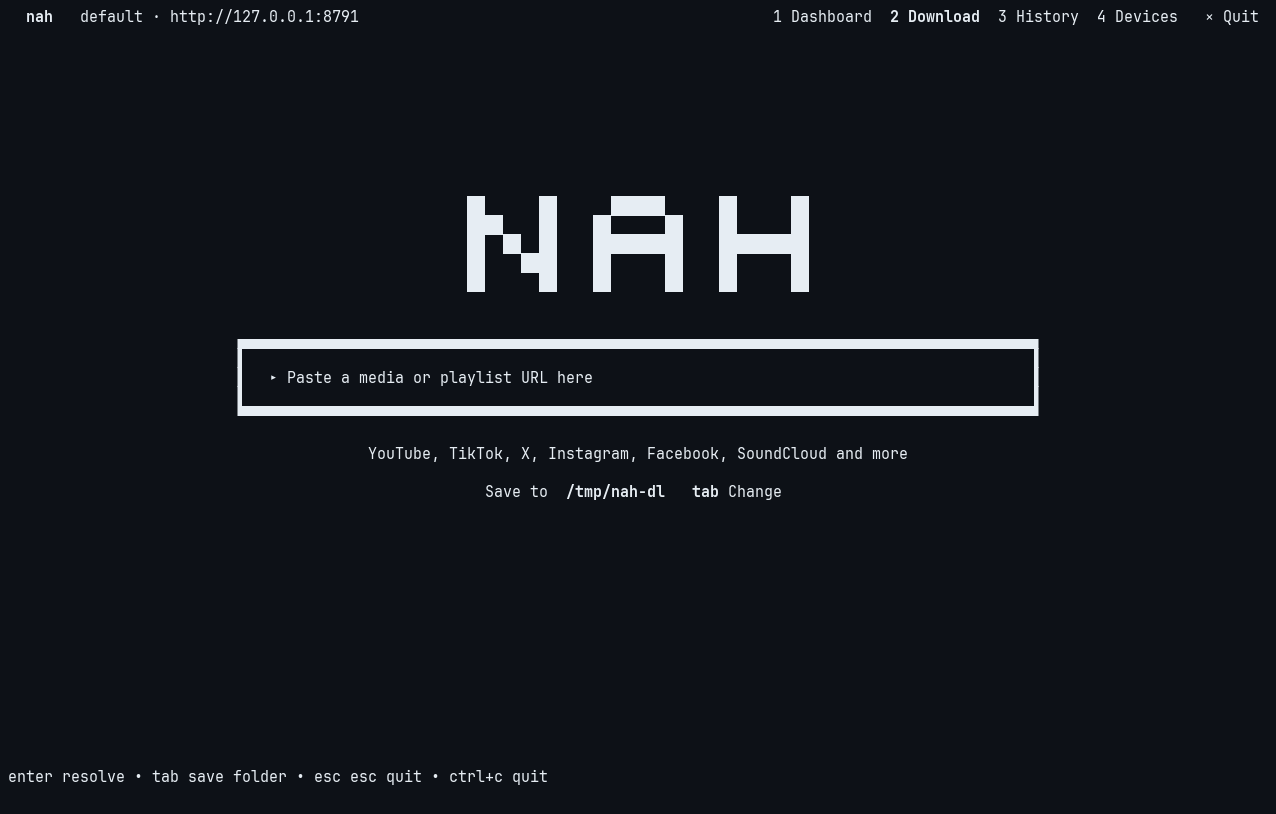
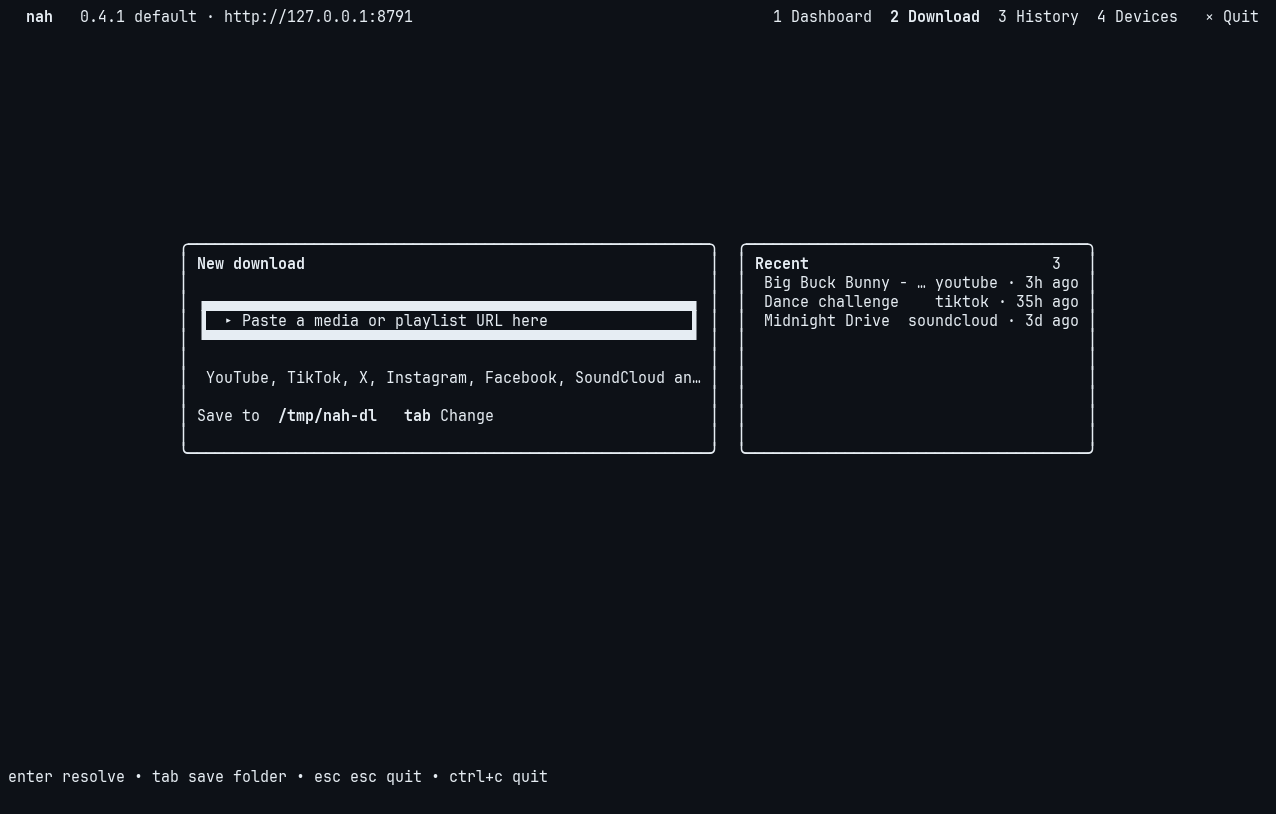
feat(tui): turn the Download tab into a two-panel workspace (#47)
The home screen was the last place still showing the old look: a
centred ASCII logo over one big input. It is now the same panel
language as the rest of the app:

- 'New download' panel: compact URL field, platforms hint, save
  folder line (click and keyboard targets preserved)
- 'Recent' panel: the latest history entries with platform and age,
  cached and refreshed after each download; stacked under the input
  on narrow terminals, dropped when it would not fit
- the toast moved under the panels so long gateway errors are no
  longer truncated inside the card
- docs/nah-home.png regenerated; scripts/shots/dump.py added to
  inspect the text buffer without rendering PNGs

Changed region(s): [[0.1528, 0.215, 0.8558, 0.6143], [0.0611, 0.0, 0.3362, 0.0307], [0.1528, 0.3071, 0.2445, 0.3378]]

diff --git a/cli/internal/tui/playground.go b/cli/internal/tui/playground.go
@@ -111,6 +111,10 @@ type playground struct {
 	thumbKey   [2]int // the box the cached lines were drawn for
 	toast      flash
 
+	// recent caches the history entries shown on the home screen; recentDirty reloads them
+	recent      []history.Entry
+	recentDirty bool
+
 	dl struct {
 		name     string
 		done     int64
@@ -138,6 +142,7 @@ func newPlayground(d Deps) *playground {
 		ask: d.Session != nil && d.Session.AskWhereToSave(),
 	}
 	m.tbl = newGrid([]string{"DOWNLOAD AS", "DETAILS"}, []int{0, 24})
+	m.recentDirty = true
 	return m
 }
 
@@ -471,6 +476,7 @@ func (m *playground) Update(msg tea.Msg) tea.Cmd {
 					if msg.err != nil {
 						m.playlistStatus[msg.index] = "failed"
 					} else if m.d.History != nil && m.playlist != nil && msg.index < len(m.playlist.Entries) {
+						m.recentDirty = true
 						entry := m.playlist.Entries[msg.index]
 						_, _ = m.d.History.Add(history.Entry{
 							URL:      entry.URL,
@@ -495,6 +501,7 @@ func (m *playground) Update(msg tea.Msg) tea.Cmd {
 				m.toast.set(now, "Download failed: "+msg.err.Error(), true)
 			default:
 				if m.d.History != nil && m.res != nil {
+					m.recentDirty = true
 					kind := "video"
 					height := 0
 					audioFormat := ""
@@ -863,44 +870,157 @@ func (m *playground) centered(lines []string) string {
 	return b.String()
 }
 
-// homeScreen is the resting state: the logo, one input in the middle, the save folder underneath.
-func (m *playground) homeScreen() string {
-	col := minInt(90, maxInt(30, m.w-6))
-	var lines []string
-	if m.h >= 24 && m.w >= ui.BannerWidth+4 {
-		lines = append(lines, ui.Banner()...)
-		lines = append(lines, "")
+// recentDownloads returns the cached history entries, newest first, reloading the store when dirty.
+func (m *playground) recentDownloads() []history.Entry {
+	if !m.recentDirty {
+		return m.recent
 	}
-	lines = append(lines, "") // room above the input
-	inputAt := len(lines)
-	lines = append(lines, strings.Split(m.inputBox(col, true), "\n")...)
+	m.recentDirty = false
+	m.recent = nil
+	if m.d.History == nil {
+		return nil
+	}
+	if all, err := m.d.History.List(); err == nil {
+		m.recent = all
+	}
+	return m.recent
+}
 
-	switch m.state {
-	case pgResolving:
-		lines = append(lines, "", m.sp.View()+" Resolving… "+ui.MutedText.Render("(extraction can take ~10 s)"))
-	default:
-		lines = append(lines, "", ui.MutedText.Render(ui.Truncate("YouTube, TikTok, X, Instagram, Facebook, SoundCloud and more", col)))
+// recentLine renders one history entry: title on the left, muted platform and age on the right.
+func (m *playground) recentLine(e history.Entry, now time.Time, inner int) string {
+	title := e.Title
+	if title == "" {
+		title = e.URL
 	}
-	lines = append(lines, "")
-	chipAt := len(lines)
-	chip := m.folderLine(col, "tab")
-	lines = append(lines, chip)
-	if m.toast.visible(m.d.Now()) {
+	meta := joinDot(e.Platform, ui.Ago(e.At, now))
+	metaW := lipgloss.Width(meta)
+	tw := maxInt(4, inner-metaW-1)
+	t := ui.Truncate(title, tw)
+	pad := inner - lipgloss.Width(t) - metaW
+	if pad < 1 {
+		pad = 1
+	}
+	return t + strings.Repeat(" ", pad) + ui.MutedText.Render(meta)
+}
+
+// homeScreen is the resting state: a "New download" panel beside a "Recent" panel on wide
+// terminals, stacked on narrow ones. No logo: the header already says nah.
+func (m *playground) homeScreen() string {
+	now := m.d.Now()
+	margin := 1
+	avail := maxInt(20, m.w-2*margin)
+	wide := m.w >= 90
+
+	var leftW, rightW, gap int
+	if wide {
+		gap = 2
+		leftW = (avail - gap) * 3 / 5
+		rightW = avail - gap - leftW
+	} else {
+		leftW, rightW = avail, avail
+	}
+
+	// ---- left panel: the URL field, the platforms hint, the save folder ----
+	inner := leftW - 4 // panel border + padding
+	var body []string
+	body = append(body, "")
+	inputLines := strings.Split(m.inputBox(inner, false), "\n")
+	inputIdx := len(body)
+	body = append(body, inputLines...)
+	body = append(body, "")
+	if m.state == pgResolving {
+		body = append(body, " "+m.sp.View()+" Resolving… "+ui.MutedText.Render("(extraction can take ~10 s)"))
+	} else {
+		body = append(body, " "+ui.MutedText.Render(ui.Truncate("YouTube, TikTok, X, Instagram, Facebook, SoundCloud and more", inner-1)))
+	}
+	body = append(body, "")
+	folderIdx := len(body)
+	chip := m.folderLine(inner, "tab") // already sized to fit: do not rune-truncate styled text
+	body = append(body, chip)
+	body = append(body, "")
+
+	left := panelNote("New download", "", strings.Join(body, "\n"), leftW)
+	leftH := len(body) + 3 // two border rows plus the header line
+
+	// the recent panel: beside the input on wide terminals, under it on narrow ones
+	var right string
+	var rows int
+	if wide {
+		rows = len(body) // same height as the download panel
+		right = m.recentPanel(rows, rightW-4)
+	} else {
+		entries := len(m.recentDownloads())
+		rows = minInt(maxInt(entries, 1), 6) // at least the empty-state hint if it fits
+		if fit := m.h - leftH - 6; rows > fit {
+			rows = maxInt(0, fit)
+		}
+		if rows > 0 {
+			right = m.recentPanel(rows, rightW-4)
+		}
+	}
+
+	// the toast spans the whole column under the panels: inside one it would be truncated away
+	toastH := 0
+	if m.toast.visible(now) {
+		toastH = 2
+	}
+
+	blockH := leftH + toastH
+	if right != "" {
+		if wide {
+			blockH = maxInt(leftH, strings.Count(right, "\n")+1) + toastH
+		} else {
+			blockH = leftH + 2 + strings.Count(right, "\n") + 1 + toastH
+		}
+	}
+	top := maxInt(0, (m.h-blockH)*2/5)
+	leftTop := top
+
+	// remember where the clickable things are (panel border + header + body index)
+	m.inputY = leftTop + 2 + inputIdx
+	m.inputH = len(inputLines)
+	m.chipY = leftTop + 2 + folderIdx
+	m.chipX0 = margin + 2
+	m.chipX1 = margin + 2 + lipgloss.Width(chip)
+
+	var block string
+	if wide {
+		block = lipgloss.JoinHorizontal(lipgloss.Top, left, strings.Repeat(" ", gap), right)
+	} else if right != "" {
+		block = left + "\n\n" + right
+	} else {
+		block = left
+	}
+	if toastH > 0 {
 		style := ui.OK
 		if m.toast.bad {
 			style = ui.Danger
 		}
-		lines = append(lines, "", style.Render(ui.Truncate(m.toast.text, m.w-4)))
+		block += "\n\n" + style.Render(ui.Truncate(m.toast.text, avail))
 	}
+	return strings.Repeat("\n", top) + indent(block, " ")
+}
 
-	// remember where the clickable things are
-	top := maxInt(0, (m.h-len(lines))*2/5)
-	m.inputY = top + inputAt
-	m.chipY = top + chipAt
-	w := lipgloss.Width(chip)
-	m.chipX0 = (m.w - w) / 2
-	m.chipX1 = m.chipX0 + w
-	return m.centered(lines)
+// recentPanel draws the "Recent" panel with up to rows entries; extra body lines stay blank so
+// the panel matches the height of the download panel beside it.
+func (m *playground) recentPanel(rows, inner int) string {
+	entries := m.recentDownloads()
+	now := m.d.Now()
+	note := ""
+	if len(entries) > 0 {
+		note = fmt.Sprintf("%d", minInt(len(entries), rows))
+	}
+	var body []string
+	if len(entries) == 0 {
+		body = append(body, " "+ui.MutedText.Render(ui.Truncate("Nothing yet — downloads from this computer show up here.", inner-1)))
+	}
+	for i := 0; i < rows && i < len(entries); i++ {
+		body = append(body, " "+m.recentLine(entries[i], now, inner-1))
+	}
+	for len(body) < rows {
+		body = append(body, "")
+	}
+	return panelNote("Recent", note, strings.Join(body, "\n"), inner+4)
 }
 
 func joinDot(parts ...string) string {

diff --git a/cli/internal/tui/home_test.go b/cli/internal/tui/home_test.go
@@ -30,39 +30,34 @@ func homeApp(t *testing.T, w, h int) (*App, *playground, *fakeSession, string) {
 	return a, pg, sess, home
 }
 
-func TestTheInputIsCenteredLikeASearchPage(t *testing.T) {
+func TestTheHomeIsAWorkspaceOfTwoPanels(t *testing.T) {
 	a, pg, _, _ := homeApp(t, 160, 40)
 	if a.bodyWidth() != maxContentWidth || a.bodyLeft() != (160-maxContentWidth)/2 {
 		t.Fatalf("content column: %d at %d", a.bodyWidth(), a.bodyLeft())
 	}
-	lines := strings.Split(pg.View(), "\n")
-	var box []string
-	for _, l := range lines {
-		if t := strings.TrimSpace(l); strings.HasPrefix(t, "▗") || strings.HasPrefix(t, "▐") || strings.HasPrefix(t, "▝") {
-			box = append(box, l)
-		}
-	}
-	if len(box) != 5 {
-		t.Fatalf("the home input is a roomy 5-line box, got %d\n%s", len(box), strings.Join(lines, "\n"))
-	}
-	w := lipgloss.Width(strings.TrimSpace(box[0]))
-	left := len(box[0]) - len(strings.TrimLeft(box[0], " "))
-	right := pg.w - left - w
-	if d := left - right; d < -1 || d > 1 {
-		t.Fatalf("the box is not centred: %d left, %d right", left, right)
-	}
-	if w > 90 || w < 60 {
-		t.Fatalf("the input does not stretch across the screen: %d wide", w)
-	}
-	// vertically: in the upper-middle band, not glued to the top or the bottom
-	if pg.inputY < 8 || pg.inputY > pg.h*3/4 {
-		t.Fatalf("input row %d of %d", pg.inputY, pg.h)
-	}
 	out := pg.View()
-	for _, want := range []string{"██", "Paste a media or playlist URL", "Save to", "Change"} {
+	for _, want := range []string{"New download", "Recent", "Paste a media or playlist URL", "Save to", "Change"} {
 		if !strings.Contains(out, want) {
 			t.Errorf("missing %q", want)
 		}
+	}
+	if strings.Contains(out, "██") {
+		t.Error("the ASCII logo is gone: the header already says nah")
+	}
+	// the input is the compact 3-line field inside the left panel
+	lines := strings.Split(out, "\n")
+	var box []string
+	for _, l := range lines {
+		if strings.ContainsAny(l, "▗▐▝") {
+			box = append(box, l)
+		}
+	}
+	if len(box) != 3 {
+		t.Fatalf("the home input is a compact 3-line field, got %d\n%s", len(box), strings.Join(lines, "\n"))
+	}
+	// vertically: in the upper-middle band, not glued to the top or the bottom
+	if pg.inputY < 4 || pg.inputY > pg.h*3/4 {
+		t.Fatalf("input row %d of %d", pg.inputY, pg.h)
 	}
 }
 
@@ -266,17 +261,16 @@ func TestPastingAVeryLongLinkNeverBreaksTheInputBox(t *testing.T) {
 		lines := strings.Split(pg.View(), "\n")
 		n := 0
 		for _, l := range lines {
-			tr := strings.TrimSpace(l)
-			if strings.HasPrefix(tr, "▗") || strings.HasPrefix(tr, "▐") || strings.HasPrefix(tr, "▝") {
+			if strings.ContainsAny(l, "▗▐▝") {
 				n++
 			}
 			if w := lipgloss.Width(l); w > size[0] {
 				t.Fatalf("%v: a line is %d wide", size, w)
 			}
 		}
-		want := 5
-		if size[1] < 24 {
-			want = 5
+		want := 3 // the compact framed field: top edge, text, bottom edge
+		if ui.RoundCaps {
+			want = 0 // a pill has no frame lines to count
 		}
 		if n != want {
 			t.Fatalf("%v: the field must stay %d lines, got %d:\n%s", size, want, n, strings.Join(lines, "\n"))

diff --git a/cli/scripts/shots/dump.py b/cli/scripts/shots/dump.py
@@ -1,0 +1,57 @@
+#!/usr/bin/env python3
+"""Dump the real `nah` TUI text buffer (no PNG) for inspection.
+
+    go build -o /tmp/nah-dev .            # from cli/
+    python3 stub.py 8791 &                # fake gateway
+    NAH_BIN=/tmp/nah-dev python3 dump.py dashboard
+"""
+import os, sys, time, signal
+import pyte
+sys.path.insert(0, os.path.dirname(os.path.abspath(__file__)))
+from shot import spawn, drain, wait_idle
+
+COLS, ROWS = 120, 36
+
+def screen_text(screen):
+    return "\n".join(screen.display)
+
+def click_tab(fd, screen, stream, name):
+    """SGR click on the tab label found in the header row."""
+    for y in range(3):
+        line = screen.display[y]
+        x = line.find(name)
+        if x >= 0:
+            cx = x + len(name) // 2
+            os.write(fd, f"\x1b[<0;{cx+1};{y+1}M".encode())
+            time.sleep(0.05)
+            os.write(fd, f"\x1b[<0;{cx+1};{y+1}m".encode())
+            return True
+    return False
+
+def run(which):
+    screen = pyte.Screen(COLS, ROWS)
+    stream = pyte.ByteStream(screen)
+    pid, fd = spawn({"NAH_API_KEY": "nah_live_test"}, COLS, ROWS)
+    try:
+        os.set_blocking(fd, False)
+        wait_idle(fd, screen, stream)
+        for tab in which.split(","):
+            if not click_tab(fd, screen, stream, tab):
+                print(f"!! tab {tab!r} not found")
+                continue
+            wait_idle(fd, screen, stream, quiet=0.5, maxwait=10)
+            time.sleep(0.5)
+            drain(fd, screen, stream, timeout=0.3)
+            print(f"===== {tab} =====")
+            print(screen_text(screen))
+            print()
+    finally:
+        try:
+            os.kill(pid, signal.SIGTERM)
+        except ProcessLookupError:
+            pass
+        os.close(fd)
+
+if __name__ == "__main__":
+    os.makedirs(os.environ.get("NAH_HOME", "/tmp/nah-home"), exist_ok=True)
+    run(sys.argv[1] if len(sys.argv) > 1 else "Dashboard")
